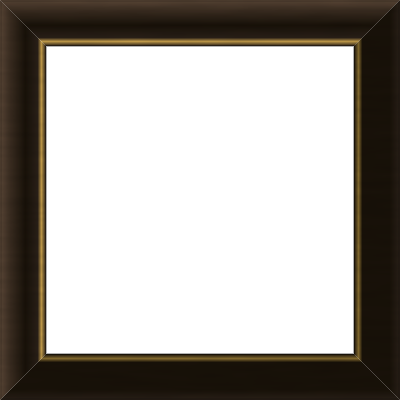
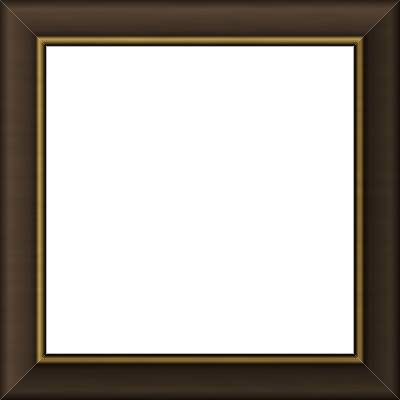
Frames: remove Vintage Copper; espresso → flat Concerto-style with gold sight edge
- Removed Vintage Copper signature frame (per David: not attractive) — dropped
  the choice from the template and deleted the asset. Signature tier is now
  Driftwood Gray + Plein Air Espresso, still gated to 16x20+.
- Reworked Plein Air Espresso to a flat wide espresso-brown gallery face with a
  gold sight-edge (a brown take on Luma's Concerto Black-with-Gold), replacing
  the deep concave scoop.
- Bumped texture cache to v3.

Changed region(s): [[0.0, 0.0, 0.99, 0.99]]

diff --git a/public/js/preview.js b/public/js/preview.js
@@ -635,7 +635,7 @@
       const tex = frameDef.texture || (frameDef.id === 'pleinair' ? 'espresso' : frameDef.id) || 'black';
       // ?v bumps whenever the frame textures are re-cut, so browsers/CDN fetch
       // the new art instead of a cached old PNG (same filenames).
-      border.style.setProperty('--frame-tex', 'url("/images/frames/' + tex + '.png?v=2")');
+      border.style.setProperty('--frame-tex', 'url("/images/frames/' + tex + '.png?v=3")');
       border.style.setProperty('--frame-fallback', frameDef.swatch || '#2a2a2a');
     }
     // Recompute frame face width for the current size/layout.
